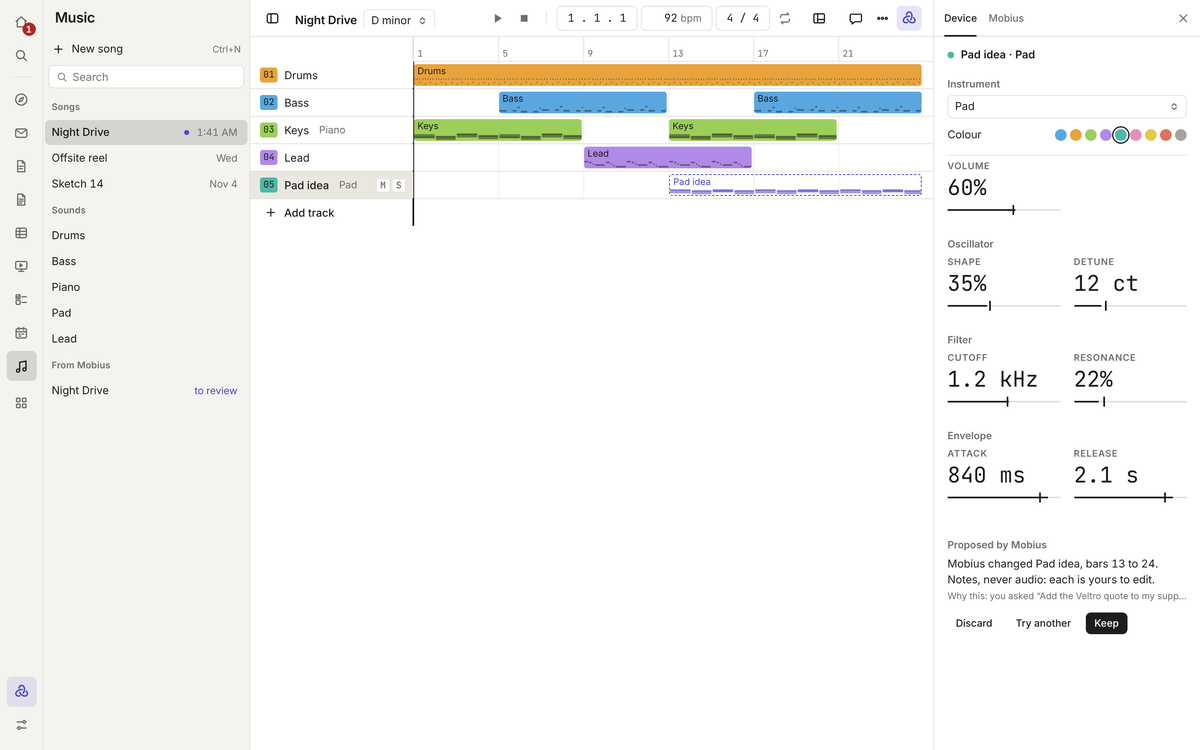
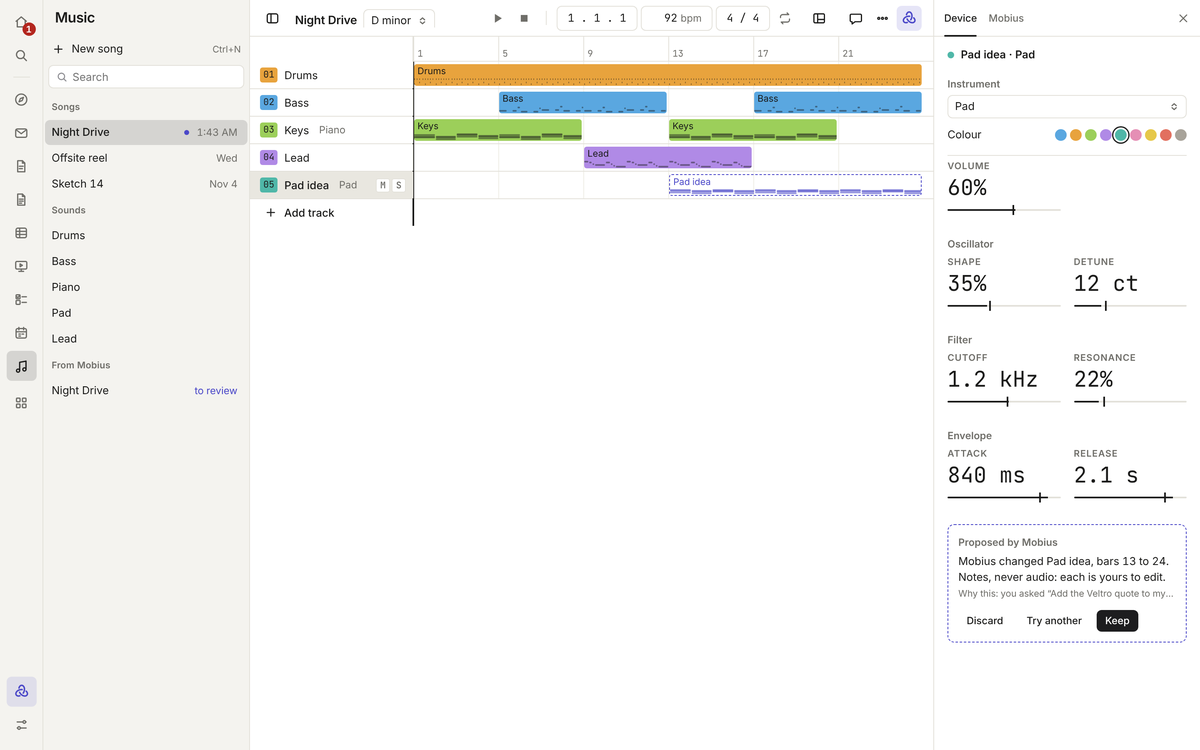
Music: Mobius's proposal in the Device tab carries the dashed indigo edge
Claude-Session: https://claude.ai/code/session_01VRGwo92y9AyxCvHYC61ZVd

Changed region(s): [[0.7708, 0.7053, 0.9867, 0.8587]]

diff --git a/apps/desktop/src/studio.css b/apps/desktop/src/studio.css
@@ -100,7 +100,9 @@
 .studio-swatch[aria-checked="true"] { box-shadow: 0 0 0 2px var(--paper), 0 0 0 3.5px var(--ink); }
 .studio-swatch:focus-visible { outline: 2px solid var(--ink); outline-offset: 2px; }
 .studio-dev-note { margin: var(--sp-2) 0; color: var(--muted); font-size: var(--fs-sm); }
-.studio-dev-proposal { margin-top: var(--sp-4); }
+/* What Mobius proposes: the dashed indigo edge every Mobius change carries until it is kept. */
+.studio-dev-proposal { margin-top: var(--sp-4); padding: var(--sp-3); border: calc(var(--hairline-w) * 1.5) dashed var(--mobius); border-radius: var(--radius-panel); }
+.studio-dev-proposal .studio-dev-head { margin-top: 0; }
 .studio-dev-proposal p { margin: var(--sp-1) 0 var(--sp-3); line-height: var(--lh-body); }
 .studio-dev-actions { display: flex; flex-wrap: wrap; gap: var(--sp-2); }
 
